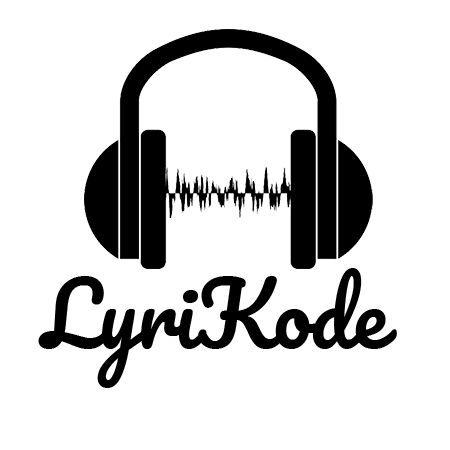
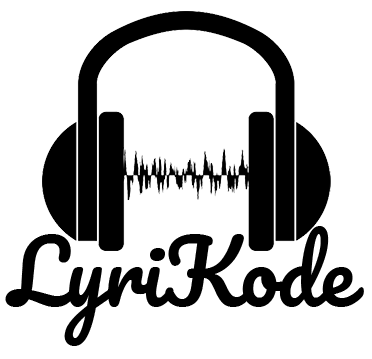
replaced header image

diff --git a/index.html b/index.html
@@ -5,14 +5,14 @@
     <link rel="icon" type="image/svg+xml" href="/vite.svg" />
     <meta name="viewport" content="width=device-width, initial-scale=1.0" />
     <link href="https://fonts.googleapis.com/css2?family=Pacifico&display=swap" rel="stylesheet">
-    <link rel="icon" type="image/x-icon" href="/img/favicon-LyriKode.ico">
+    <link rel="icon" type="image/x-icon" href="./img/favicon-LyriKode.ico">
     
     <title>LyriKode</title>
   </head>
   <body>
 
     <div id="app"></div>
-    <nav class="navbar navbar-expand-lg ">
+    <nav class="navbar navbar-expand-lg fixed-top">
       <div class="container-fluid">
         <a class="navbar-brand" href="index.html">LyriKode</a>
         <button class="navbar-toggler" type="button" data-bs-toggle="collapse" data-bs-target="#navbarNavAltMarkup" aria-controls="navbarNavAltMarkup" aria-expanded="false" aria-label="Toggle navigation">

diff --git a/style.css b/style.css
@@ -44,9 +44,8 @@ button{
   
 }
 
-.logo-container img{
-  display: flex;
-  align-items: center;
-  justify-content: center;
+.container-fluid img{
+
+  margin-top: 100px;
   
 }
